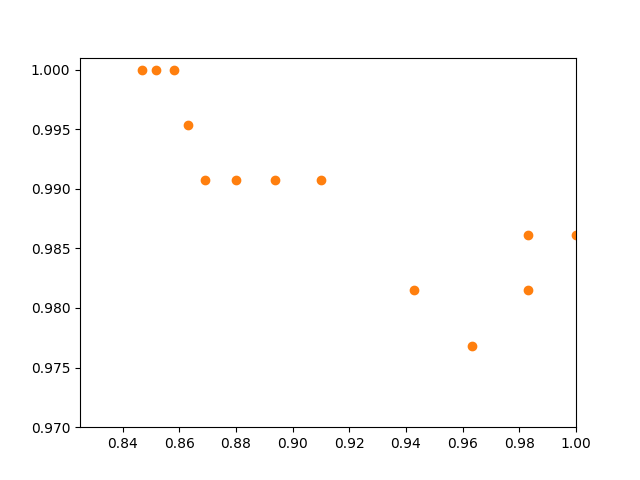
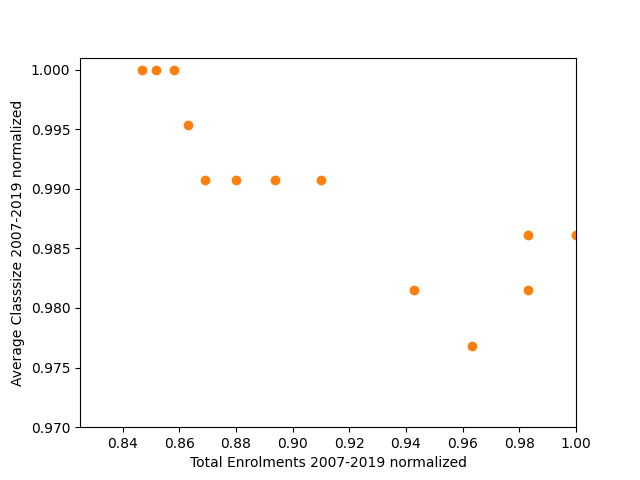
student id added

Changed region(s): [[0.0, 0.2188, 0.0312, 0.8125], [0.2812, 0.9375, 0.7188, 0.9688]]

diff --git a/Jacques_Demazy_Work/.ipynb_checkpoints/Enrolment_vs_Classsize-checkpoint.py b/Jacques_Demazy_Work/.ipynb_checkpoints/Enrolment_vs_Classsize-checkpoint.py
@@ -47,6 +47,8 @@ tot_enrolments = pd.Series(tot_enrolments)
 
 #plot enrolments with classsizes
 plt.scatter(tot_enrolments, classsize2007_2019)
+plt.ylabel('Average Classsize 2007-2019')
+plt.xlabel('Total Enrolments 2007-2019')
 plt.savefig("enrolments_vs_classzie.png")
 
 
@@ -57,6 +59,8 @@ tot_enrolments = tot_enrolments / tot_enrolments.max()
 
 #create new normalised plots
 plt.scatter(tot_enrolments, classsize2007_2019)
+plt.ylabel('Average Classsize 2007-2019 normalized')
+plt.xlabel('Total Enrolments 2007-2019 normalized')
 plt.xlim(0.825,1)
 plt.ylim(0.97,1.001)
 plt.savefig("enrolments_vs_classzie_normalized.png")
@@ -88,6 +92,7 @@ for i in (0,tot_enrolments.size-1):
 
 pearson_correlation = pearson_correlation / (x_var*y_var)**0.5
 
+print("Pearson Coefficient is:")
 print(pearson_correlation)
     
 

diff --git a/Jacques_Demazy_Work/Enrolment_vs_Classsize.py b/Jacques_Demazy_Work/Enrolment_vs_Classsize.py
@@ -47,6 +47,8 @@ tot_enrolments = pd.Series(tot_enrolments)
 
 #plot enrolments with classsizes
 plt.scatter(tot_enrolments, classsize2007_2019)
+plt.ylabel('Average Classsize 2007-2019')
+plt.xlabel('Total Enrolments 2007-2019')
 plt.savefig("enrolments_vs_classzie.png")
 
 
@@ -57,6 +59,8 @@ tot_enrolments = tot_enrolments / tot_enrolments.max()
 
 #create new normalised plots
 plt.scatter(tot_enrolments, classsize2007_2019)
+plt.ylabel('Average Classsize 2007-2019 normalized')
+plt.xlabel('Total Enrolments 2007-2019 normalized')
 plt.xlim(0.825,1)
 plt.ylim(0.97,1.001)
 plt.savefig("enrolments_vs_classzie_normalized.png")
@@ -88,6 +92,7 @@ for i in (0,tot_enrolments.size-1):
 
 pearson_correlation = pearson_correlation / (x_var*y_var)**0.5
 
+print("Pearson Coefficient is:")
 print(pearson_correlation)
     
 

diff --git a/Kah_Win_work/.ipynb_checkpoints/school_property_tax-checkpoint.py b/Kah_Win_work/.ipynb_checkpoints/school_property_tax-checkpoint.py
@@ -15,6 +15,7 @@ print(loc_df['LGA_Name'].value_counts().tail(20))
 
 # top 20 and bottom 20locations of land tax
 tax_sorted = tax_df.sort_values('Total proportionate tax', ascending=False)
-tax_sorted[['Municipality', 'Total proportionate tax']].drop(tax_sorted.index[[0,1]]).head(20)
-tax_sorted[['Municipality', 'Total proportionate tax']].tail(20)
+print(tax_sorted[['Municipality', 'Total proportionate tax']].drop(tax_sorted.index[[0,1]]).head(20))
+print(tax_sorted[['Municipality', 'Total proportionate tax']].tail(20))
+
 

diff --git a/Kah_Win_work/school_property_tax.py b/Kah_Win_work/school_property_tax.py
@@ -15,6 +15,7 @@ print(loc_df['LGA_Name'].value_counts().tail(20))
 
 # top 20 and bottom 20locations of land tax
 tax_sorted = tax_df.sort_values('Total proportionate tax', ascending=False)
-tax_sorted[['Municipality', 'Total proportionate tax']].drop(tax_sorted.index[[0,1]]).head(20)
-tax_sorted[['Municipality', 'Total proportionate tax']].tail(20)
+print(tax_sorted[['Municipality', 'Total proportionate tax']].drop(tax_sorted.index[[0,1]]).head(20))
+print(tax_sorted[['Municipality', 'Total proportionate tax']].tail(20))
+
 

diff --git a/Junkai_Work/.ipynb_checkpoints/classsize_vs_attendance-checkpoint.py b/Junkai_Work/.ipynb_checkpoints/classsize_vs_attendance-checkpoint.py
@@ -46,6 +46,8 @@ df2['Secondary ungraded attendence'] = df2['Secondary ungraded attendence'] / df
 
 #secondary school attendance vs classsize
 plt.scatter(df1['Secondary'], df2['Secondary ungraded attendence'])
+plt.ylabel('Average Attendance')
+plt.xlabel('Average Class size')
 plt.savefig("classsize_vs_attendance.png")
 
 df1.plot()

diff --git a/Junkai_Work/classsize_vs_attendance.py b/Junkai_Work/classsize_vs_attendance.py
@@ -46,6 +46,8 @@ df2['Secondary ungraded attendence'] = df2['Secondary ungraded attendence'] / df
 
 #secondary school attendance vs classsize
 plt.scatter(df1['Secondary'], df2['Secondary ungraded attendence'])
+plt.ylabel('Average Attendance')
+plt.xlabel('Average Class size')
 plt.savefig("classsize_vs_attendance.png")
 
 df1.plot()

diff --git a/README.md b/README.md
@@ -5,3 +5,5 @@ Assignment 2 group for COMP20008 Unimelb semester 1 2021
 Group Members ID'S:
 
 Jacques Demazy : 1080167
+Jericho: 1074469
+Kah: 980962
